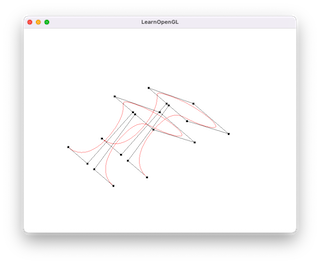
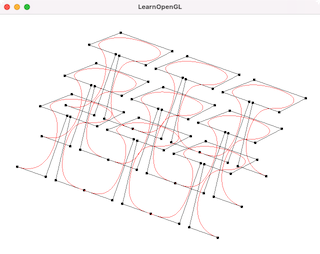
refactoring winding number for curves

diff --git a/examples_oldgl_glfw/113_KnitGeometry/main.cpp b/examples_oldgl_glfw/113_KnitGeometry/main.cpp
@@ -17,77 +17,129 @@
 #include <GLFW/glfw3.h>
 
 #include "delfem2/vec3.h"
-#include "delfem2/vec2.h"
 #include "delfem2/geo_curve_cubic.h"
-#include "delfem2/opengl/old/mshuni.h"
 #include "delfem2/glfw/viewer3.h"
 #include "delfem2/glfw/util.h"
 
 namespace dfm2 = delfem2;
 
 void Draw(
-    const std::vector< dfm2::CVec3d > &cps,
-    const std::vector< dfm2::CVec3d > &sample){
+    const std::vector<dfm2::CVec3d> &cps,
+    const std::vector<dfm2::CVec3d> &sample) {
   ::glPointSize(5);
-  ::glColor3d(0,0,0);
+  ::glColor3d(0, 0, 0);
   ::glBegin(GL_POINTS);
-  for(const auto& cp : cps){
+  for (const auto &cp: cps) {
     ::glVertex3dv(cp.data());
   }
   ::glEnd();
   //
   ::glLineWidth(1);
-  ::glColor3d(0,0,0);
+  ::glColor3d(0, 0, 0);
   ::glBegin(GL_LINE_STRIP);
-  for(const auto& cp : cps){
+  for (const auto &cp: cps) {
     ::glVertex3dv(cp.data());
   }
   ::glEnd();
   //
   ::glLineWidth(1);
-  ::glColor3d(1,0,0);
+  ::glColor3d(1, 0, 0);
   ::glBegin(GL_LINE_STRIP);
-  for(const auto& p : sample){
+  for (const auto &p: sample) {
     ::glVertex3dv(p.data());
   }
   ::glEnd();
 }
 
-int main()
-{
-  std::vector< dfm2::CVec3d > cps = {
+// Suppose that the knitted peice start from point(0,0) and stay in x-y plane
+template<typename VEC>
+std::vector<std::vector<VEC>> RepeatKnitUnit(
+    std::vector<std::vector<VEC>> &cps_knit,
+    unsigned int row, unsigned int col,
+    const std::vector<VEC> &cps,
+    const double stride_y) {
+  double min_x = cps[0][0], max_x = cps[0][0];
+  for (unsigned int i = 1; i < cps.size(); i++) {
+    min_x = min_x < cps[i][0] ? min_x : cps[i][0];
+    max_x = max_x > cps[i][0] ? min_x : cps[i][0];
+  }
+
+  const double interval_x = max_x - min_x;
+  const double interval_z = 0.;
+
+  for (unsigned int j = 0; j < row; j++) {
+    const double add_y = j * stride_y;
+    const double add_z = j * interval_z;
+    std::vector<VEC> yarn;
+    yarn.reserve(cps.size() * col);
+    yarn.emplace_back(cps[0][0], cps[0][1] + add_y, cps[0][2] + add_z);
+    for (unsigned int i = 0; i < col; i++) {
+      const double add_x = i * interval_x;
+      for (unsigned int k = 1; k < cps.size(); k++) { // ignore the first node to avoid repetation
+        yarn.emplace_back(VEC(cps[k][0] + add_x, cps[k][1] + add_y, cps[k][2] + add_z));
+      }
+    }
+    cps_knit.emplace_back(yarn);
+  }
+
+  return cps_knit;
+}
+
+int main() {
+  std::vector<dfm2::CVec3d> cps_unit = {
       {-0.4, 0, 0},
       {-0.06, 0, 0},
       {-0.02, 0.45, 0.5},
       {-0.34, 0.45, 0.5},
       {-0.31, 1, 0.2},
-//      {0, 1, 0.0},
       {0.31, 1, 0.2},
       {0.34, 0.45, 0.5},
       {0.02, 0.45, 0.5},
       {0.06, 0, 0},
       {0.4, 0, 0}};
-  std::vector< dfm2::CVec3d > sample;
+  std::vector<dfm2::CVec3d> sample;
   delfem2::Polyline_CubicBSplineCurve(
       sample,
-      1001, cps);
+      1001, cps_unit);
   //
   delfem2::glfw::CViewer3 viewer(1);
   //
   delfem2::glfw::InitGLOld();
   viewer.OpenWindow();
   //
-  while (!glfwWindowShouldClose(viewer.window)) {
-    //
+  for (unsigned int iframe = 0; iframe < 100; ++iframe) {
     viewer.DrawBegin_oldGL();
-    Draw(cps,sample);
+    Draw(cps_unit, sample);
     ::glPushMatrix();
-    ::glTranslated(0,0.4,0);
-    Draw(cps,sample);
+    ::glTranslated(0, 0.4, 0);
+    Draw(cps_unit, sample);
     ::glPopMatrix();
     glfwSwapBuffers(viewer.window);
     glfwPollEvents();
+    //
   }
+  { // knit geometry. Each row separated
+    std::vector<std::vector<delfem2::CVec3d>> cps_knit;
+    RepeatKnitUnit<delfem2::CVec3d>(
+        cps_knit,
+        3, 3, cps_unit, 0.5);
+    std::vector<std::vector<dfm2::CVec3d >> samples;
+    samples.resize(cps_knit.size());
+    for (unsigned int iy = 0; iy < cps_knit.size(); ++iy) {
+      delfem2::Polyline_CubicBSplineCurve(
+          samples[iy],
+          1001, cps_knit[iy]);
+    }
+    while (!glfwWindowShouldClose(viewer.window)) {
+      viewer.DrawBegin_oldGL();
+      for (unsigned int iy = 0; iy < cps_knit.size(); ++iy) {
+        Draw(cps_knit[iy], samples[iy]);
+      }
+      glfwSwapBuffers(viewer.window);
+      glfwPollEvents();
+    }
+  }
+
   glfwDestroyWindow(viewer.window);
   glfwTerminate();
   exit(EXIT_SUCCESS);

diff --git a/include/delfem2/geo_curve_quadratic.h b/include/delfem2/geo_curve_quadratic.h
@@ -520,17 +520,17 @@ typename VEC::Scalar WindingNumber_QuadraticCurve2(
       3 * p2.dot(p1),
       2 * p2.squaredNorm()};
   std::vector<SCALAR> roots = delfem2::RootsOfPolynomial<4>(coe, num_bisection);
-  for(unsigned int i=0;i<num_sample;i++){
-    roots.push_back( static_cast<SCALAR>(i)/static_cast<SCALAR>(num_sample-1) );
+  for(unsigned int i=0;i<num_sample+2;i++){
+    roots.push_back( static_cast<SCALAR>(i)/static_cast<SCALAR>(num_sample+1) );
   }
   std::sort(roots.begin(), roots.end());
-  SCALAR theta = 0.0;
+  SCALAR theta = 0;
   VEC q0 = p0;
   for(unsigned int ir0=0;ir0<roots.size()-1;++ir0) {
     SCALAR t1 = roots[ir0+1];
     const VEC q1 = p2 * t1 * t1 + p1 * t1 + p0;
-    const SCALAR sn = q1.y*q0.x - q1.x*q0.y;
-    const SCALAR cs = q0.x * q1.x + q0.y * q1.y;
+    const SCALAR sn = q1[1]*q0[0] - q1[0]*q0[1];
+    const SCALAR cs = q0[0] * q1[0] + q0[1] * q1[1];
     theta += std::atan2(sn,cs);
     q0 = q1;
   }

diff --git a/include/delfem2/geo_polyline.h b/include/delfem2/geo_polyline.h
@@ -245,15 +245,17 @@ template <typename VEC>
 typename VEC::Scalar WindingNumber_Polyline2(
     const std::vector<VEC>& poly,
     const VEC &q){
+  assert(poly.size()>1);
   using SCALAR = typename VEC::Scalar;
   SCALAR theta = 0;
+  VEC p0 = poly[0]-q;
   for(unsigned int ip0=0;ip0<poly.size()-1;++ip0){
     unsigned int ip1 = ip0 + 1;
-    delfem2::CVec2d p0 = poly[ip0]-q;
-    delfem2::CVec2d p1 = poly[ip1]-q;
-    SCALAR s = p1.y*p0.x - p1.x*p0.y;
-    SCALAR c = p0.x * p1.x + p0.y * p1.y;
+    const VEC p1 = poly[ip1]-q;
+    const SCALAR s = p1[1]*p0[0] - p1[0]*p0[1];
+    const SCALAR c = p0[0] * p1[0] + p0[1] * p1[1];
     theta += std::atan2(s,c);
+    p0 = p1;
   }
   return theta;
 }
